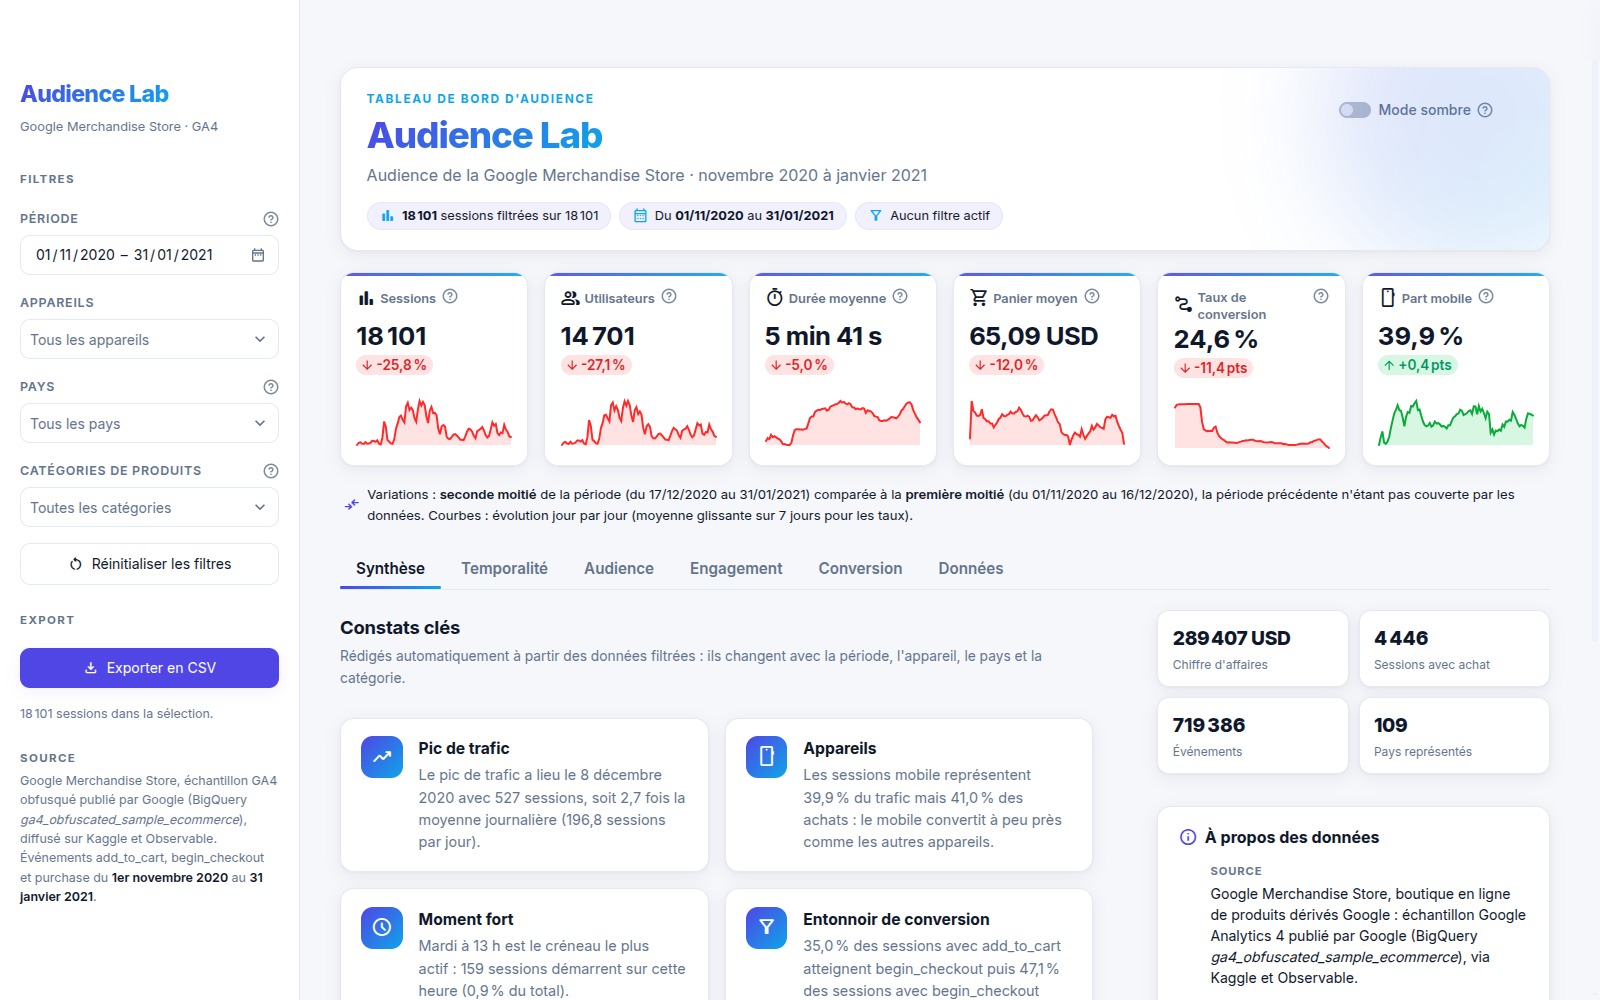
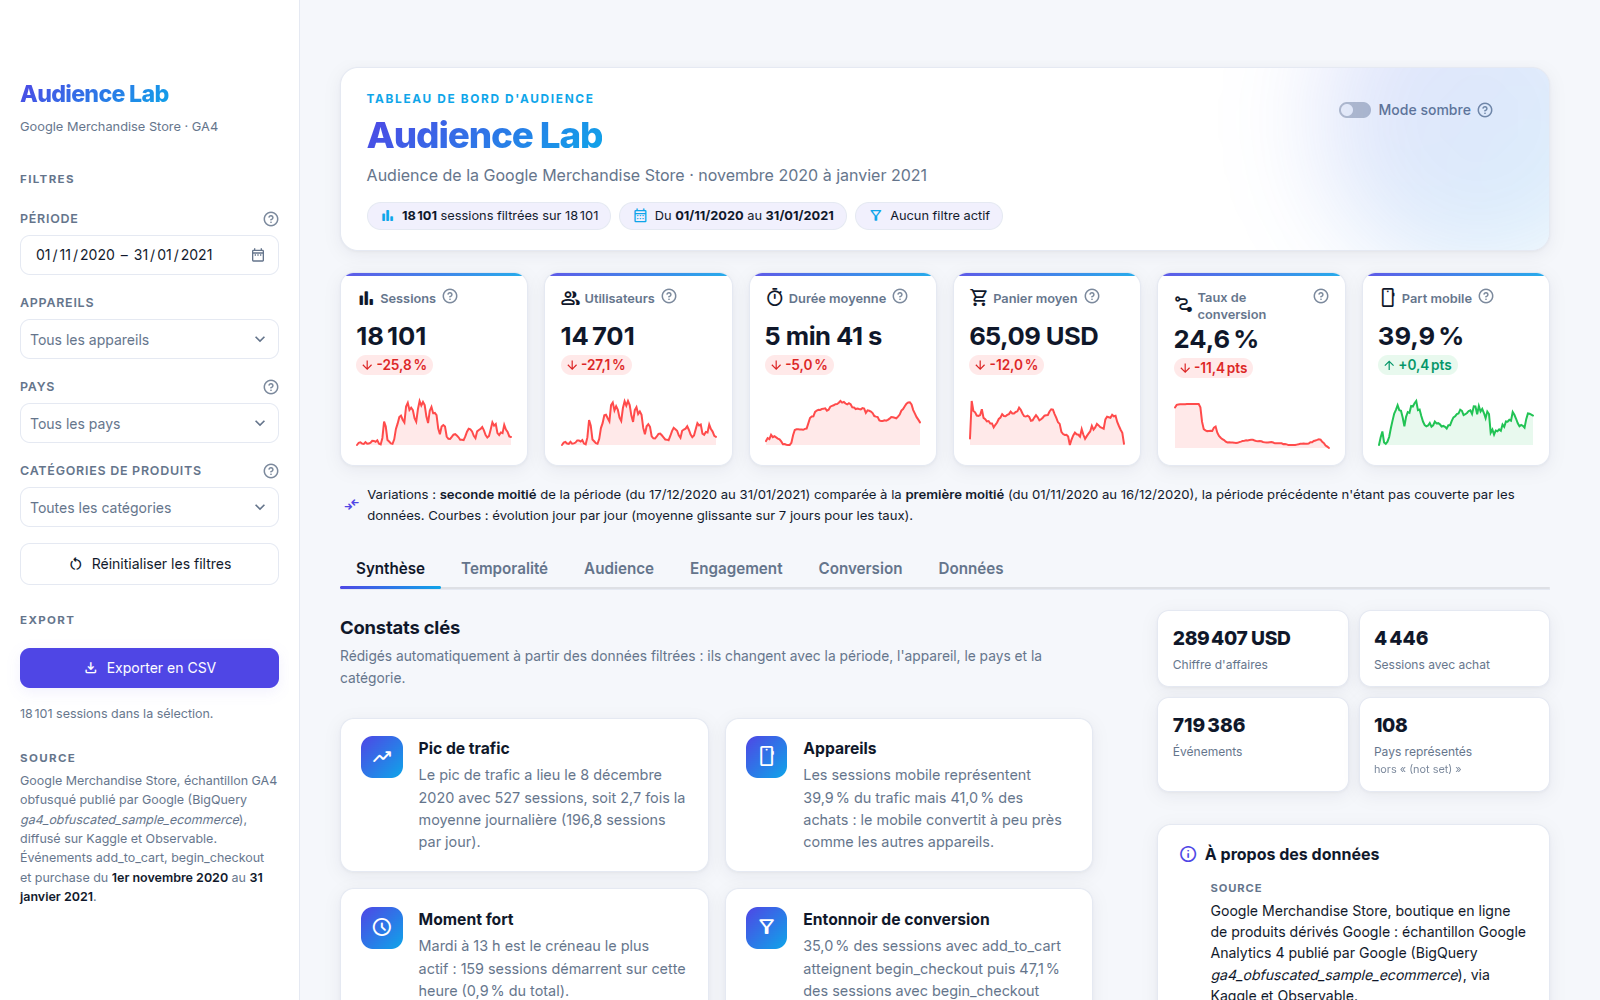
feat: thème clair par défaut, bascule vers le thème sombre
Base native claire dans .streamlit/config.toml (pas de flash sombre au premier
rendu), info-bulles natives recolorées par le thème actif, tests adaptés,
captures d'accueil régénérées, rapport mis à jour.

diff --git a/rapport/rapport_analyse.html b/rapport/rapport_analyse.html
@@ -530,7 +530,7 @@
 
   <h3>Choix de conception</h3>
   <div class="grille-2">
-    <div class="carte"><h4>Deux thèmes cohérents</h4><p>Un thème sombre par défaut, adapté à la projection, et un thème clair, au choix par une bascule. Le CSS et chaque figure Plotly (fond, texte, palette) suivent le thème&#8239;; les couleurs des appareils restent identiques d’un graphique à l’autre.</p></div>
+    <div class="carte"><h4>Deux thèmes cohérents</h4><p>Un thème clair par défaut et un thème sombre, adapté à la projection, au choix par une bascule. Le CSS et chaque figure Plotly (fond, texte, palette) suivent le thème&#8239;; les couleurs des appareils restent identiques d’un graphique à l’autre.</p></div>
     <div class="carte"><h4>Des variations honnêtes</h4><p>Chaque carte compare la sélection à la période précédente de même durée. Si celle-ci sort des données, ce qui est le cas de la vue par défaut, l’application compare la seconde moitié de la période à la première et l’annonce en clair&#8239;; un seul jour sélectionné n’affiche pas de variation.</p></div>
     <div class="carte"><h4>Lisible et robuste</h4><p>Typographie française (espaces insécables, virgule décimale), valeurs de données en anglais, légende chiffrée sous chaque graphique, message «&nbsp;Aucune donnée pour ces filtres&nbsp;» au lieu d’une erreur. Une page «&nbsp;Données&nbsp;» montre l’aperçu des sessions filtrées.</p></div>
     <div class="carte"><h4>Rapide en ligne</h4><p>Données en Parquet, chargement et filtrage mis en cache (<code>st.cache_data</code>), onglets calculés seulement à l’ouverture&nbsp;: de 0,1 à 0,4&nbsp;s par interaction en local. 95 tests automatisés couvrent données, indicateurs, graphiques et application.</p></div>
@@ -615,7 +615,7 @@
     <li><strong>La session, bon niveau d’analyse.</strong> Passer de 719&#8239;386 événements à 18&#8239;101 sessions a rendu calculables la durée, la valeur du panier et l’entonnoir, et a révélé que <code>ga_session_id</code> seul n’est pas un identifiant de session.</li>
     <li><strong>Des statistiques robustes à l’asymétrie.</strong> Médiane plutôt que moyenne pour la durée, échelle logarithmique, corrélation de Spearman et taux conditionnels pour l’entonnoir&nbsp;: les choix de représentation ont évité plusieurs conclusions trompeuses.</li>
     <li><strong>Un format adapté au déploiement.</strong> Le Parquet divise par neuf environ le volume (41,7&nbsp;Mo de CSV contre 4,8&nbsp;Mo) en conservant les types&#8239;; avec la mise en cache, l’application reste fluide sur Streamlit Community Cloud.</li>
-    <li><strong>Une application testée.</strong> 95 tests pytest vérifient les données traitées, les indicateurs, les constats, les graphiques (y compris les filtres vides et le suivi du thème) et l’application elle-même.</li>
+    <li><strong>Une application testée.</strong> 98 tests pytest vérifient les données traitées, les indicateurs, les constats, les graphiques (y compris les filtres vides et le suivi du thème) et l’application elle-même.</li>
   </ul>
 
   <h3>Limites des données</h3>

diff --git a/audience/theme.py b/audience/theme.py
@@ -1,7 +1,7 @@
 """Thèmes visuels d'Audience Lab : palettes, feuille de style Streamlit, habillage Plotly.
 
-Deux thèmes : « sombre » (Nuit analytique, thème par défaut) et « clair »
-(professionnel). Chaque thème fournit :
+Deux thèmes : « clair » (professionnel, thème par défaut) et « sombre »
+(Nuit analytique, adapté à la projection). Chaque thème fournit :
 
 - une palette (`Theme`) partagée par le CSS et les graphiques ;
 - `css(theme)` : une balise <style> à injecter avec
@@ -96,8 +96,8 @@ THEMES: dict[str, Theme] = {"sombre": SOMBRE, "clair": CLAIR}
 
 
 def obtenir_theme(nom: str) -> Theme:
-    """Thème demandé ; le thème sombre pour un nom inconnu."""
-    return THEMES.get(nom, SOMBRE)
+    """Thème demandé ; le thème clair (thème par défaut) pour un nom inconnu."""
+    return THEMES.get(nom, CLAIR)
 
 
 def rgba(hexa: str, alpha: float) -> str:
@@ -405,6 +405,13 @@ html, body, .stApp, [data-testid="stAppViewContainer"] {
 [data-baseweb="tooltip"], [data-baseweb="tooltip"] div {
   background-color: var(--al-surface) !important; color: var(--al-texte) !important;
 }
+/* Info-bulles natives (aide « ? ») : la base native est claire, le thème sombre les recolore */
+[data-testid="stTooltipContent"] {
+  background-color: var(--al-surface) !important; color: var(--al-texte) !important;
+  border: 1px solid var(--al-bordure) !important; box-shadow: var(--al-ombre) !important;
+}
+[data-testid="stTooltipContent"] p, [data-testid="stTooltipContent"] li,
+[data-testid="stTooltipContent"] [data-testid="stMarkdownContainer"] { color: var(--al-texte) !important; }
 
 /* Interrupteurs, cases, radios, curseurs */
 .stApp [role="switch"], .stApp [data-baseweb="checkbox"] span { border-color: var(--al-bordure); }

diff --git a/tests/test_app.py b/tests/test_app.py
@@ -44,7 +44,8 @@ def test_app_demarre():
     assert [t.label for t in at.tabs] == ONGLETS
     assert len(at.metric) >= 6
     assert [m.label for m in at.metric[:6]] == LIBELLES_KPI
-    assert at.session_state["theme"] == "sombre"
+    assert at.session_state["theme"] == "clair"  # thème clair par défaut
+    assert at.toggle(key="bascule_theme").value is False
 
 
 def test_app_kpis_periode_complete():
@@ -55,18 +56,31 @@ def test_app_kpis_periode_complete():
     assert "$" not in "".join(valeurs.values())
 
 
-def test_app_theme_clair():
+def test_app_theme_sombre():
+    """Le thème peut être fixé avant le premier rendu : la bascule le suit."""
     at = _app()
-    at.session_state["theme"] = "clair"
+    at.session_state["theme"] = "sombre"
     at.run()
     assert not at.exception
-    assert at.session_state["theme"] == "clair"
-    assert at.toggle(key="bascule_theme").value is False
+    assert at.session_state["theme"] == "sombre"
+    assert at.toggle(key="bascule_theme").value is True
 
 
 def test_app_bascule_theme():
+    """La bascule « Mode sombre » passe du thème clair au sombre, puis revient."""
     at = _app().run()
+    at.toggle(key="bascule_theme").set_value(True).run()
+    assert not at.exception
+    assert at.session_state["theme"] == "sombre"
     at.toggle(key="bascule_theme").set_value(False).run()
+    assert not at.exception
+    assert at.session_state["theme"] == "clair"
+
+
+def test_app_theme_inconnu_revient_au_clair():
+    at = _app()
+    at.session_state["theme"] = "inconnu"
+    at.run()
     assert not at.exception
     assert at.session_state["theme"] == "clair"
 

diff --git a/app.py b/app.py
@@ -6,7 +6,7 @@ fichier assemble l'interface, de haut en bas :
 
 1. configuration de la page et état de session ;
 2. chargement des données, mis en cache ;
-3. thème (bascule sombre / clair) et feuille de style ;
+3. thème (clair par défaut, bascule vers le sombre) et feuille de style ;
 4. barre latérale : filtres, réinitialisation, export CSV, source ;
 5. en-tête et bandeau des six indicateurs clés ;
 6. six onglets : Synthèse, Temporalité, Audience, Engagement, Conversion, Données ;
@@ -472,9 +472,9 @@ def libelle_pays(code: str) -> str:
 # ---------------------------------------------------------------------------
 
 ss = st.session_state
-ss.setdefault("theme", "sombre")
+ss.setdefault("theme", "clair")  # thème clair par défaut
 if ss["theme"] not in THEMES:
-    ss["theme"] = "sombre"
+    ss["theme"] = "clair"
 # La bascule suit toujours ss["theme"] (même si celui-ci est fixé ailleurs, par exemple
 # par les tests) ; on la synchronise avant sa création.
 ss["bascule_theme"] = ss["theme"] == "sombre"
@@ -617,7 +617,7 @@ def entete() -> None:
         with droite:
             st.toggle(
                 "Mode sombre", key="bascule_theme", on_change=basculer_theme,
-                help="Bascule entre le thème sombre (Nuit analytique) et le thème clair.",
+                help="Passe du thème clair (par défaut) au thème sombre (Nuit analytique), adapté à la projection.",
             )
 
 

diff --git a/tests/test_theme.py b/tests/test_theme.py
@@ -9,7 +9,7 @@ from audience.theme import THEMES, Theme, appliquer_theme, css, obtenir_theme
 def test_obtenir_theme_defaut():
     assert obtenir_theme("sombre").nom == "sombre"
     assert obtenir_theme("clair").nom == "clair"
-    assert obtenir_theme("inconnu").nom == "sombre"
+    assert obtenir_theme("inconnu").nom == "clair"  # thème par défaut
     assert set(THEMES) == {"sombre", "clair"}
     assert all(isinstance(t, Theme) for t in THEMES.values())
 
@@ -36,6 +36,8 @@ def test_css_contient_couleurs():
         assert "Inter" in feuille
         assert '[data-testid="stMetric"]' in feuille
         assert ".al-carte" in feuille
+        # Base native claire : les info-bulles natives doivent suivre le thème actif.
+        assert '[data-testid="stTooltipContent"]' in feuille
 
 
 def test_appliquer_theme():
